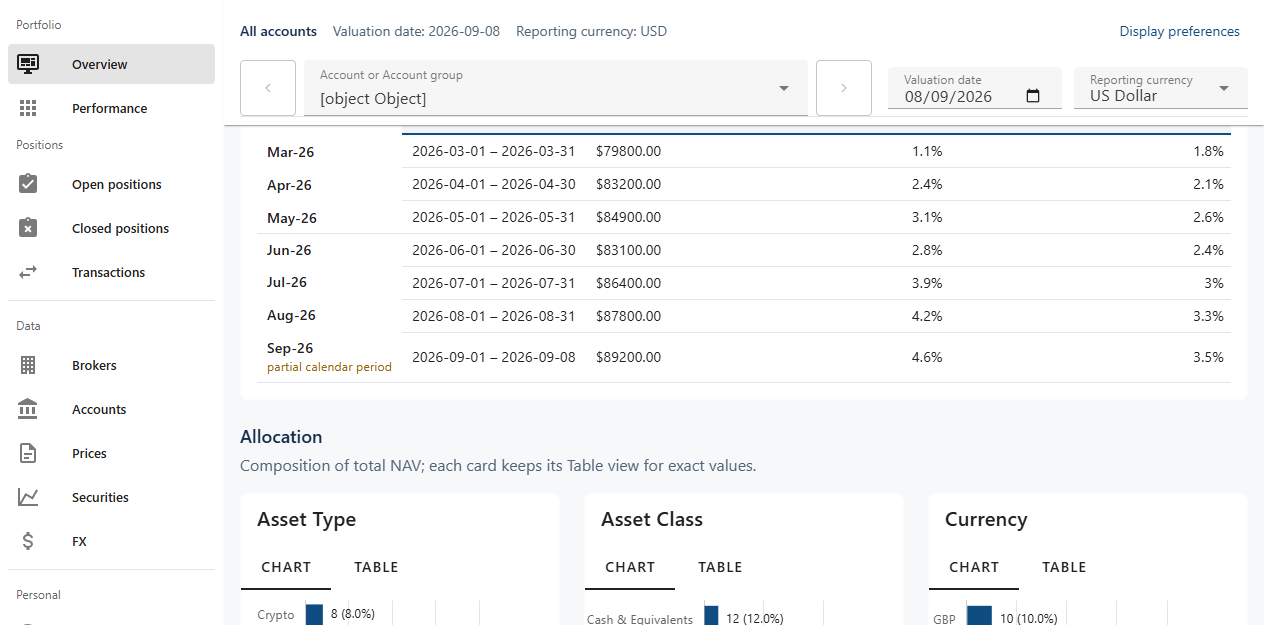
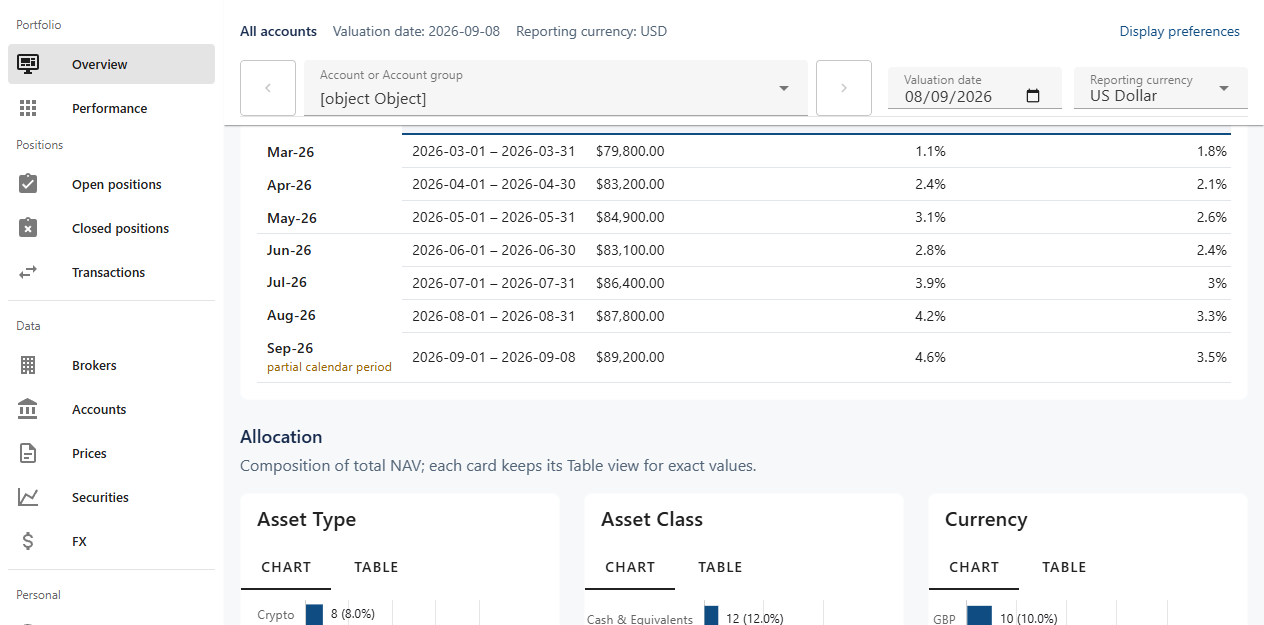
fix(charts): PR #53 round 2 — percent ticks, exact tooltip units/horizons, responsive shrink, faithful fixture formatting
- What changed: (1) return-axis tick formatter turns raw ratios into percentage labels (0.05 -> 5%, 0.1234 -> 12.34%, -0.02 -> -2%, 0 -> 0%) while plotted values and the validated document stay untouched; (2) tooltip value units split from axis labels — exact amounts carry their stated currency only (USD 100,000.00), the 'thousands' plotting-scale label remains solely on the scaled money axis; (3) tooltip IRR lines use the shared annualized control names with per-series horizons (inception-to-endpoint vs the server-provided interval; horizon helper moved to interaction.ts and shared with the inspection panel); (4) responsive shrink fixed with a min-width:0/max-width:100% chain through the pilot grid and renderer wrapper — the desktop->390px transition previously pinned a 974px child inside a 324px panel and clipped the interval-IRR control; the browser case now asserts every legend control, the canvas, and viewport controls fit after desktop->390 AND recover after 390->desktop (RED observed pre-fix: 'widest 974px vs panel 324px'; GREEN post-fix); (5) browser fixtures' v2 display strings now carry thousands separators like the real backend currency_format output (traced: the screenshot defect came from fixtures, not server formatting or rendering — the app renders server strings verbatim, proven by new formatting regressions covering 10,000 / 1,234,567,890.12 negative-parenthesized / zero / 4-dp precision / partial knownSubtotal beyond Number's safe range, all passing verb
[…]

diff --git a/frontend/src/features/charts/__tests__/navReview.spec.ts b/frontend/src/features/charts/__tests__/navReview.spec.ts
@@ -184,3 +184,164 @@ describe('finding 5: panel initializes visible series with an existing result', 
     wrapper.unmount()
   })
 })
+
+// ---------------------------------------------------------------------------
+// Review round 2: percentage axis ticks, tooltip unit/horizon correctness,
+// and verbatim comma-formatted monetary displays (rendering never reformats
+// or Number-converts exact server strings).
+
+describe('round 2: return-axis ticks format raw ratios as percentages', () => {
+  it('formats 0.05 as 5% and keeps plotted values unchanged', () => {
+    const document = parsedDocument()
+    const before = structuredClone(document)
+    const option = buildNavOption(document, defaultInteraction(document)) as {
+      yAxis?: Array<{ name?: string; axisLabel?: { formatter?: (value: number) => string } }>
+      series?: Array<{ id: string; data: Array<number | null> }>
+    }
+    const formatter = option.yAxis![1].axisLabel?.formatter
+    expect(formatter).toBeTypeOf('function')
+    expect(formatter!(0.05)).toBe('5%')
+    expect(formatter!(0.1234)).toBe('12.34%')
+    expect(formatter!(-0.02)).toBe('-2%')
+    expect(formatter!(0)).toBe('0%')
+    // Tick formatting is presentation only: plotted data and the validated
+    // document are untouched.
+    const money = option.series!.find((entry) => entry.id === 'asset_type:Stock')!
+    expect(money.data[0]).toBe(100)
+    expect(document).toEqual(before)
+  })
+})
+
+describe('round 2: tooltip units and horizons', () => {
+  const tooltipFor = (document: ChartDocument, periodIndex: number) => {
+    const option = buildNavOption(document, defaultInteraction(document)) as {
+      tooltip?: { formatter?: (params: unknown) => string }
+    }
+    const formatter = option.tooltip?.formatter
+    expect(formatter).toBeTypeOf('function')
+    return formatter!([{ axisValue: document.periods[periodIndex].key, seriesId: document.series[0].id }])!
+  }
+
+  it('never labels exact amounts with the plotting scale', () => {
+    const document = parsedDocument()
+    const tooltip = tooltipFor(document, 0)
+    expect(tooltip).toContain('USD 100,000.00')
+    expect(tooltip).not.toContain('USD 100,000.00 (USD thousands)')
+    expect(tooltip).not.toContain('thousands)')
+    // The scaled label stays on the money axis only.
+    const option = buildNavOption(document, defaultInteraction(document)) as {
+      yAxis?: Array<{ name?: string }>
+    }
+    expect(String(option.yAxis![0].name)).toMatch(/thousands/i)
+  })
+
+  it('uses the annualized IRR names with per-series horizons', () => {
+    const document = parsedDocument()
+    const option = buildNavOption(document, defaultInteraction(document)) as {
+      tooltip?: { formatter?: (params: unknown) => string }
+    }
+    const formatter = option.tooltip!.formatter!
+    const second = document.periods[1]
+    const tooltip = formatter([{ axisValue: second.key, seriesId: 'metric:irr_inception' }, { axisValue: second.key, seriesId: 'metric:irr_interval' }])!
+    expect(tooltip).toContain('Since-inception IRR (annualized)')
+    expect(tooltip).toContain(`Inception to ${second.endDate}`)
+    expect(tooltip).toContain('Interval IRR (annualized)')
+    expect(tooltip).toContain(`${second.interval.startDate} – ${second.interval.endDate}`)
+    const first = document.periods[0]
+    const firstTooltip = formatter([{ axisValue: first.key, seriesId: 'metric:irr_inception' }])!
+    expect(firstTooltip).toContain(`Inception to ${first.endDate}`)
+  })
+})
+
+describe('round 2: monetary displays render verbatim with separators', () => {
+  const FORMAT_WIRE = {
+    labels: ['Jun-26', 'Jul-26'],
+    datasets: [
+      { label: 'NAV', type: 'bar' as const, yAxisID: 'y', data: [10000, -1234567.89] },
+      { label: 'IRR (RHS)', type: 'line' as const, yAxisID: 'y1', data: [0.05, null] },
+      { label: 'Rolling IRR (RHS)', type: 'line' as const, yAxisID: 'y1', data: [null, 0] },
+    ],
+    currency: 'USDk',
+    chartV2: {
+      version: 2,
+      kind: 'nav' as const,
+      outcome: 'partial' as const,
+      partition: 'complete' as const,
+      context: { accountSelection: { type: 'all', id: null }, accountIds: [], effectiveDate: '2026-07-31', currency: 'USD', digits: 2 },
+      periods: [
+        { key: 'nav:2026-06-30', endDate: '2026-06-30', displayLabel: 'Jun-26', interval: { startDate: null, endDate: '2026-06-30', kind: 'inception' as const }, partialPeriod: false },
+        { key: 'nav:2026-07-31', endDate: '2026-07-31', displayLabel: 'Jul-26', interval: { startDate: '2026-07-01', endDate: '2026-07-31', kind: 'sample_interval' as const }, partialPeriod: false },
+      ],
+      series: [
+        {
+          id: 'metric:nav', label: 'NAV', metric: 'nav', role: 'bar' as const, axis: 'money' as const,
+          unit: { kind: 'money' as const, currency: 'USD', plotDivisor: '1000' },
+          points: [
+            { value: '10000.0000', plotValue: '10.0000', status: 'ok' as const, reason: 'observed' as const, display: 'USD 10,000.00' },
+            { value: '-1234567890.1234', plotValue: '-1234567.8901234', status: 'ok' as const, reason: 'observed' as const, display: '(USD 1,234,567,890.12)' },
+          ],
+        },
+        {
+          id: 'metric:irr_inception', label: 'IRR (RHS)', metric: 'irr_inception', role: 'line' as const, axis: 'return' as const,
+          unit: { kind: 'ratio' as const, plotDivisor: '1' },
+          points: [
+            { value: '0.05', plotValue: '0.05', status: 'ok' as const, reason: 'observed' as const, display: '5.0%' },
+            { value: '0.123456789012345678901234567890', plotValue: '0.123456789012345678901234567890', status: 'ok' as const, reason: 'observed' as const, display: '12.345678901234567890123456789012%' },
+          ],
+        },
+        {
+          id: 'metric:irr_interval', label: 'Rolling IRR (RHS)', metric: 'irr_interval', role: 'line' as const, axis: 'return' as const,
+          unit: { kind: 'ratio' as const, plotDivisor: '1' },
+          points: [
+            { value: null, plotValue: null, status: 'not_available' as const, reason: 'solver_unavailable' as const, display: 'N/A' },
+            { value: '0', plotValue: '0', status: 'ok' as const, reason: 'zero_exposure' as const, display: '0.0%' },
+          ],
+        },
+      ],
+      totals: [
+        { value: '10000.0000', plotValue: '10.0000', status: 'ok' as const, reason: 'observed' as const, display: 'USD 10,000.00' },
+        { value: null, plotValue: null, knownSubtotal: '9007199254740993.123456789', status: 'partial' as const, reason: 'missing_price' as const, display: 'USD 9,007,199,254,740,993.12' },
+      ],
+    },
+  }
+
+  function formatDocument(): ChartDocument {
+    const parsed = parseNavEnvelope(FORMAT_WIRE)
+    if (parsed.capability !== 'v2') throw new Error('expected v2')
+    return parsed.document
+  }
+
+  it('keeps separators, negatives, precision and partial text exact in the table', async () => {
+    const document = formatDocument()
+    const table = await import('../ChartDataTable.vue')
+    const wrapper = mount(table.default, {
+      props: { document, interaction: defaultInteraction(document) },
+    })
+    const text = wrapper.find('table').text()
+    expect(text).toContain('USD 10,000.00')
+    expect(text).toContain('(USD 1,234,567,890.12)')
+    expect(text).toContain('5.0%')
+    // A 32-significant-digit display beyond Number's safe range stays verbatim.
+    expect(text).toContain('12.345678901234567890123456789012%')
+    expect(text).toContain('USD 9,007,199,254,740,993.12')
+    expect(text).toContain('known subtotal 9007199254740993.123456789')
+    wrapper.unmount()
+  })
+
+  it('keeps separators exact in inspection and tooltips without Number conversion', async () => {
+    const document = formatDocument()
+    const inspection = await import('../ChartInspection.vue')
+    const inspectionText = mount(inspection.default, {
+      props: { document, interaction: { ...defaultInteraction(document), inspectedPeriodKey: document.periods[1].key } },
+    }).text()
+    expect(inspectionText).toContain('(USD 1,234,567,890.12)')
+    expect(inspectionText).toContain('USD 9,007,199,254,740,993.12')
+    expect(inspectionText).toContain('known subtotal 9007199254740993.123456789')
+    const option = buildNavOption(document, defaultInteraction(document)) as {
+      tooltip?: { formatter?: (params: unknown) => string }
+    }
+    const tooltip = option.tooltip!.formatter!([{ axisValue: document.periods[0].key, seriesId: 'metric:nav' }])!
+    expect(tooltip).toContain('USD 10,000.00')
+    expect(tooltip).not.toContain('USD 10000')
+  })
+})

diff --git a/frontend/src/features/charts/buildNavOption.ts b/frontend/src/features/charts/buildNavOption.ts
@@ -14,19 +14,33 @@ import type { EChartsOption } from 'echarts'
 import type { ChartDocument, ChartSeries, ChartUnit, ChartValue } from './contracts'
 import { toPlotNumber } from './renderBoundary'
 import { irrLineStyle, seriesColor } from './seriesStyles'
-import type { ChartInteraction } from './interaction'
+import { seriesControlName, seriesHorizon, type ChartInteraction } from './interaction'
 
 function escapeHtml(text: string): string {
   return text.replace(/&/g, '&amp;').replace(/</g, '&lt;').replace(/>/g, '&gt;')
 }
 
-function unitLabel(unit: ChartUnit): string {
+/** Axis label: the money axis names its plotting scale (e.g. USD thousands). */
+function axisUnitLabel(unit: ChartUnit): string {
   if (unit.kind === 'money') {
     return unit.plotDivisor === '1000' ? `${unit.currency} thousands` : unit.currency
   }
   if (unit.kind === 'ratio') return '%'
   if (unit.kind === 'percent_of_nominal') return '% of nominal'
   return 'quantity'
+}
+
+/** Value label: exact amounts are named in their stated unit, never the plotting scale. */
+function valueUnitLabel(unit: ChartUnit): string {
+  if (unit.kind === 'money') return unit.currency
+  if (unit.kind === 'ratio') return '%'
+  if (unit.kind === 'percent_of_nominal') return '% of nominal'
+  return 'quantity'
+}
+
+/** Presentation-only ratio→percentage tick label; plotted values are untouched. */
+function percentTickLabel(value: number): string {
+  return `${parseFloat((value * 100).toFixed(2))}%`
 }
 
 function valueLine(point: ChartValue | undefined): string {
@@ -61,7 +75,7 @@ export function buildNavOption(document: ChartDocument, interaction: ChartIntera
     }
   }
   const moneyUnit = document.series.find((entry) => entry.axis === 'money')?.unit
-  const moneyAxisName = moneyUnit ? unitLabel(moneyUnit) : undefined
+  const moneyAxisName = moneyUnit ? axisUnitLabel(moneyUnit) : undefined
   return {
     aria: { enabled: true },
     animation: false,
@@ -76,7 +90,7 @@ export function buildNavOption(document: ChartDocument, interaction: ChartIntera
     }],
     yAxis: [
       moneyAxisName ? { type: 'value', name: moneyAxisName } : { type: 'value' },
-      { type: 'value', scale: true, name: '%' },
+      { type: 'value', scale: true, name: '%', axisLabel: { formatter: percentTickLabel } },
     ],
     dataZoom: [
       { type: 'inside', xAxisIndex: 0, startValue: interaction.viewport ? undefined : 0, endValue: interaction.viewport ? undefined : 100, start: startValue, end: endValue },
@@ -101,8 +115,13 @@ function navTooltip(
   for (const param of list) {
     const series = param?.seriesId ? seriesById.get(param.seriesId) : undefined
     if (!series) continue
+    // Exact IRR control names and per-series horizons match the inspection
+    // panel; exact amounts carry their stated unit, never the plotting scale.
+    const label = seriesControlName(series)
+    const horizon = seriesHorizon(series, period)
+    const horizonText = horizon ? ` <em>(${escapeHtml(horizon)})</em>` : ''
     lines.push(
-      `${escapeHtml(series.label)}: ${escapeHtml(valueLine(series.points[index]))} <em>(${escapeHtml(unitLabel(series.unit))})</em>`,
+      `${escapeHtml(label)}: ${escapeHtml(valueLine(series.points[index]))} <em>(${escapeHtml(valueUnitLabel(series.unit))})</em>${horizonText}`,
     )
   }
   const total = document.totals?.[index]

diff --git a/frontend/src/features/charts/ChartInspection.vue b/frontend/src/features/charts/ChartInspection.vue
@@ -57,8 +57,8 @@
 
 <script setup lang="ts">
 import { computed } from 'vue'
-import type { ChartDocument, ChartPeriod, ChartSeries, ChartValue } from './contracts'
-import { seriesControlName, type ChartInteraction } from './interaction'
+import type { ChartDocument, ChartPeriod, ChartValue } from './contracts'
+import { seriesControlName, seriesHorizon, type ChartInteraction } from './interaction'
 
 const props = defineProps<{
   document: ChartDocument
@@ -82,12 +82,6 @@ function valueDetail(point: ChartValue | undefined): string | null {
   if (!point || point.status === 'ok') return null
   const subtotal = 'knownSubtotal' in point ? `; known subtotal ${point.knownSubtotal}` : ''
   return `${point.status} (${point.reason})${subtotal}`
-}
-
-function seriesHorizon(series: ChartSeries, period: ChartPeriod): string | null {
-  if (series.metric === 'irr_inception') return `Inception to ${period.endDate}`
-  if (series.metric === 'irr_interval') return horizonText(period)
-  return null
 }
 
 const inspectedValues = computed(() => {
@@ -119,11 +113,6 @@ function unitText(kind: string, currency?: string): string {
   if (kind === 'ratio') return 'annualized percentage'
   if (kind === 'percent_of_nominal') return '% of nominal'
   return 'quantity'
-}
-
-function horizonText(period: ChartPeriod): string {
-  if (period.interval.kind === 'inception') return `Inception to ${period.interval.endDate}`
-  return `${period.interval.startDate} – ${period.interval.endDate}`
 }
 
 function orderedViewport(first: string, last: string) {

diff --git a/frontend/src/features/charts/interaction.ts b/frontend/src/features/charts/interaction.ts
@@ -1,7 +1,7 @@
 // Controlled interaction model for the NAV pilot (C3). One source of truth
 // for series visibility, inspected period and viewport; zoom never changes
 // values, queries or IRR horizons.
-import type { ChartDocument, ChartSeries } from './contracts'
+import type { ChartDocument, ChartPeriod, ChartSeries } from './contracts'
 
 export interface ChartInteraction {
   visibleSeriesIds: readonly string[]
@@ -51,4 +51,17 @@ export function seriesControlName(series: ChartSeries): string {
   if (series.metric === 'irr_inception') return 'Since-inception IRR (annualized)'
   if (series.metric === 'irr_interval') return 'Interval IRR (annualized)'
   return series.label
+}
+
+// Per-series horizon text: the since-inception IRR always spans inception to
+// the endpoint; the interval IRR uses the server-provided interval bounds
+// (inception semantics at the first sample).
+export function seriesHorizon(series: ChartSeries, period: ChartPeriod): string | null {
+  if (series.metric === 'irr_inception') return `Inception to ${period.endDate}`
+  if (series.metric === 'irr_interval') {
+    return period.interval.kind === 'inception'
+      ? `Inception to ${period.interval.endDate}`
+      : `${period.interval.startDate} – ${period.interval.endDate}`
+  }
+  return null
 }

diff --git a/frontend/src/features/charts/NavChartPanel.vue b/frontend/src/features/charts/NavChartPanel.vue
@@ -190,5 +190,13 @@ function forwardParams(params: object): void {
   display: grid;
   gap: 12px;
   min-width: 0;
+  /* Grid/flex children default to min-width:auto — without this the widest
+     child (canvas or legend) pins the panel open and clips siblings on
+     desktop→mobile resize; every level of the chain must be shrinkable. */
+}
+
+.nav-chart-panel__pilot > * {
+  min-width: 0;
+  max-width: 100%;
 }
 </style>

diff --git a/frontend/src/features/charts/EChartsNav.vue b/frontend/src/features/charts/EChartsNav.vue
@@ -130,6 +130,9 @@ onUnmounted(() => {
   width: 100%;
   height: 100%;
   min-height: 360px;
+  min-width: 0;
+  max-width: 100%;
+  overflow: hidden;
 }
 
 .echarts-nav__chart {
